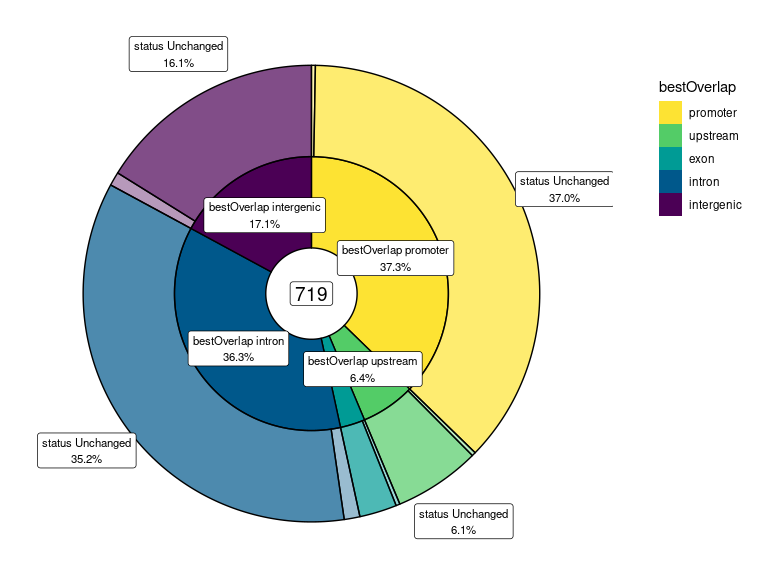
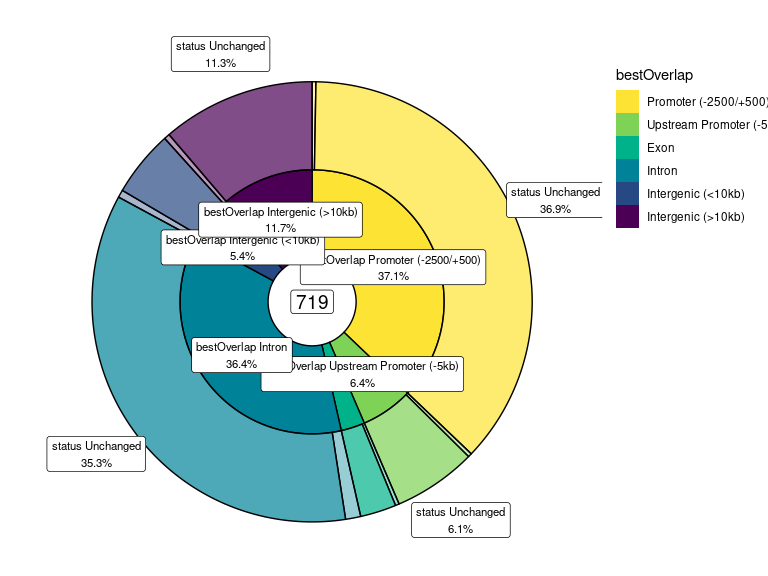
Updated sliding

Changed region(s): [[0.0312, 0.0625, 1.0, 0.9375]]

diff --git a/differential_signal_sliding.md b/differential_signal_sliding.md
@@ -927,49 +927,20 @@ empty circles</figcaption>
 
 In addition to which gene is likely to be directly impacted by the
 detected signal, knowing which type of regulatory region signal was
-observed in is another question commonly asked of ChIP-Seq data. We’ve
-already defined our promoters, so let’s keep using `reduceMC()` along
-with `setdiffMC()` to define unique *upstream promoter*, *exon*,
-*intron* and *intergenic* regions in a hierarchical manner such that
-each nucleotide only belongs to one type of region.
-
-First we’ll shift our start sites upstream by 2.5kb, then we can extend
-another 2.5kb to define regions 5kb upstream from a TSS. Then we’ll
-merge overlapping regions using `reduceMC()` and separate these from any
-promoters we’ve already defined using `setdiffMC()`
+observed in is another question commonly asked of ChIP-Seq data. The
+function `deinfeRegions()` takes, gene-, transcript- and exon-level
+information from an annotation source and creates unique region
+annotations across the genome. These are for in hierarchical order
+as: 1) Promoters, 2) Upstream Promoters, 3) Exons, 4) Introns, 5)
+Proximal Intergenic and, 6 Distal Intergenic regions.
 
 ``` r
-regions <- GRangesList(promoter = promoters)
-regions$upstream <- gencode$transcript %>% 
-  select(gene_id, ends_with("name")) %>% 
-  resize(width = 1, fix = "start") %>% 
-  shift_upstream(2500) %>% 
-  promoters(upstream = 2500, downstream = 0) %>% 
-  reduceMC() %>% 
-  setdiffMC(regions$promoter, ignore.strand = TRUE)
+regions <- defineRegions(
+  genes = gencode$gene, transcripts = gencode$transcript, exons = gencode$exon
+)
 ```
 
-We can use a similar approach to define exons, not already classified as
-being within a promoter, and introns not already assigned as promoters.
-
-``` r
-regions$exon <- gencode$exon %>% 
-  select(gene_id, ends_with("name")) %>% 
-  setdiffMC(unlist(regions), ignore.strand = TRUE) 
-regions$intron <- gencode$gene %>% 
-  select(gene_id, ends_with("name")) %>% 
-  setdiffMC(unlist(regions), ignore.strand = TRUE) 
-```
-
-For our intergenic regions, there will be no gene information so we can
-simply use the slightly faster `setdiff()` function.
-
-``` r
-regions$intergenic <- GRanges("chr10:42354900-100000000") %>% 
-  setdiff(unlist(regions), ignore.strand = TRUE)
-```
-
-Using the function `bestOverlap()` we can assign each window with
+We can now use the function `bestOverlap()` to assign each window with
 ChIP-Seq signal to the region which it shows the greatest overlap,
 setting this as a factor which reflects the hierarchy with which the
 regions were defined.
@@ -977,7 +948,7 @@ regions were defined.
 ``` r
 tmm_results$bestOverlap <- bestOverlap(tmm_results, regions) %>% 
   factor(levels = names(regions))
-tmm_results %>% filter(hmp_fdr < 0.05, bestOverlap == "promoter")
+filter(tmm_results, hmp_fdr < 0.05, bestOverlap == "promoter")
 ```
 
     ## GRanges object with 2 ranges and 14 metadata columns:
@@ -1004,6 +975,16 @@ tmm_results %>% filter(hmp_fdr < 0.05, bestOverlap == "promoter")
     ##   -------
     ##   seqinfo: 25 sequences from GRCh37 genome
 
+Given the region column contains nicely formateed output, we can also
+use this
+
+``` r
+reg_levels <- vapply(regions, function(x) x$region[1], character(1))
+tmm_results$bestOverlap <- tmm_results %>% 
+  bestOverlap(unlist(regions), var = "region") %>% 
+  factor(levels = reg_levels)
+```
+
 # Visualisation of Results
 
 ## Pie Charts
@@ -1014,8 +995,8 @@ regions. First we’ll define a consistent colour palette for these
 regions in all plots.
 
 ``` r
-region_colours <- hcl.colors(length(regions), "Viridis", rev = TRUE)
-names(region_colours) <- names(regions)
+region_colours <- hcl.colors(length(reg_levels), "Viridis", rev = TRUE)
+names(region_colours) <- reg_levels
 ```
 
 Labels produced using `plotPie()` use the `glue()` syntax and are able
@@ -1025,18 +1006,12 @@ to fill the pie segments. Totals and percentages within each segment are
 accessible using `n` and `p` respectively as these are columns within
 the internal `data.frame` formed when creating the plot. External
 formatting functions such as `comma()`, `percent()` or `str_to_title()`
-can also be put to good use here. In the label
-`"{str_to_title(.data[[fill]])}\n{n}\n({percent(p, 0.1)})"`, the first
-braces take the values from the bestOverlap (i.e. fill) column and
-format them using `str_to_title()`. The second braces take the category
-counts using the value `n` and the third braces format the proportions
-`p` as percentages. Each set of braces is separated by a line break
-using `\n`
+can also be put to good use here.
 
 ``` r
 plotPie(
   tmm_results, fill = "bestOverlap", min_p = 0.05,
-  cat_glue = "{str_to_title(.data[[fill]])}\n{n}\n({percent(p, 0.1)})"
+  cat_glue = "{.data[[fill]]}\n{n}\n({percent(p, 0.1)})"
 ) +
   scale_fill_manual(values = region_colours)
 ```
@@ -1058,7 +1033,7 @@ counts.
 plotPie(
   tmm_results, fill = "bestOverlap", scale_by = "width",
   total_glue = "{comma(N)}kb", total_size = 5,
-  cat_glue = "{str_to_title(.data[[fill]])}\n({percent(p, 0.1)})",
+  cat_glue = "{str_replace_all(.data[[fill]], ' ', '\n')}\n({percent(p, 0.1)})",
   cat_size = 4, cat_adj = 0.1, min_p = 0.04
 ) +
   scale_fill_manual(values = region_colours)
@@ -1102,8 +1077,8 @@ key segments of interest.
 plotSplitDonut(
   tmm_results, inner = "bestOverlap", outer = "status", 
   inner_palette = region_colours, outer_palette = status_colours,
-  inner_glue = "{str_to_title(.data[[inner]])}\nn = {comma(n)}\n{percent(p,0.1)}",
-  outer_glue = "{.data[[outer]]}\n{str_to_title(.data[[inner]])}\nn = {n}",
+  inner_glue = "{str_replace_all(.data[[inner]], ' ', '\n')}\nn = {comma(n)}\n{percent(p,0.1)}",
+  outer_glue = "{.data[[outer]]}\n{str_replace_all(.data[[inner]], ' ', '\n')}\nn = {n}",
   explode_outer = "(In|De)creased", explode_r = 0.3, 
   outer_label = "text", outer_min_p = 0, outer_max_p = 0.02
 )
@@ -1162,7 +1137,7 @@ Let’s check the coverage across the most highly-ranked region with
 default settings.
 
 ``` r
-gr <- filter(tmm_results, hmp_fdr < 0.05, bestOverlap == "promoter")[1]
+gr <- filter(tmm_results, hmp_fdr < 0.05, str_detect(bestOverlap, '^Prom'))[1]
 ```
 
 The most important option to consider when showing coverage is whether
@@ -1284,6 +1259,7 @@ the neighbouring region to our initial range. In contrast, the primary
 promoter appears unaffected by DHT treatment.
 
 ``` r
+names(region_colours) <- names(regions)
 plotHFGC(
   gr, cytobands = grch37.cytobands, 
   features = regions, featcol = region_colours, featstack = "dense",
